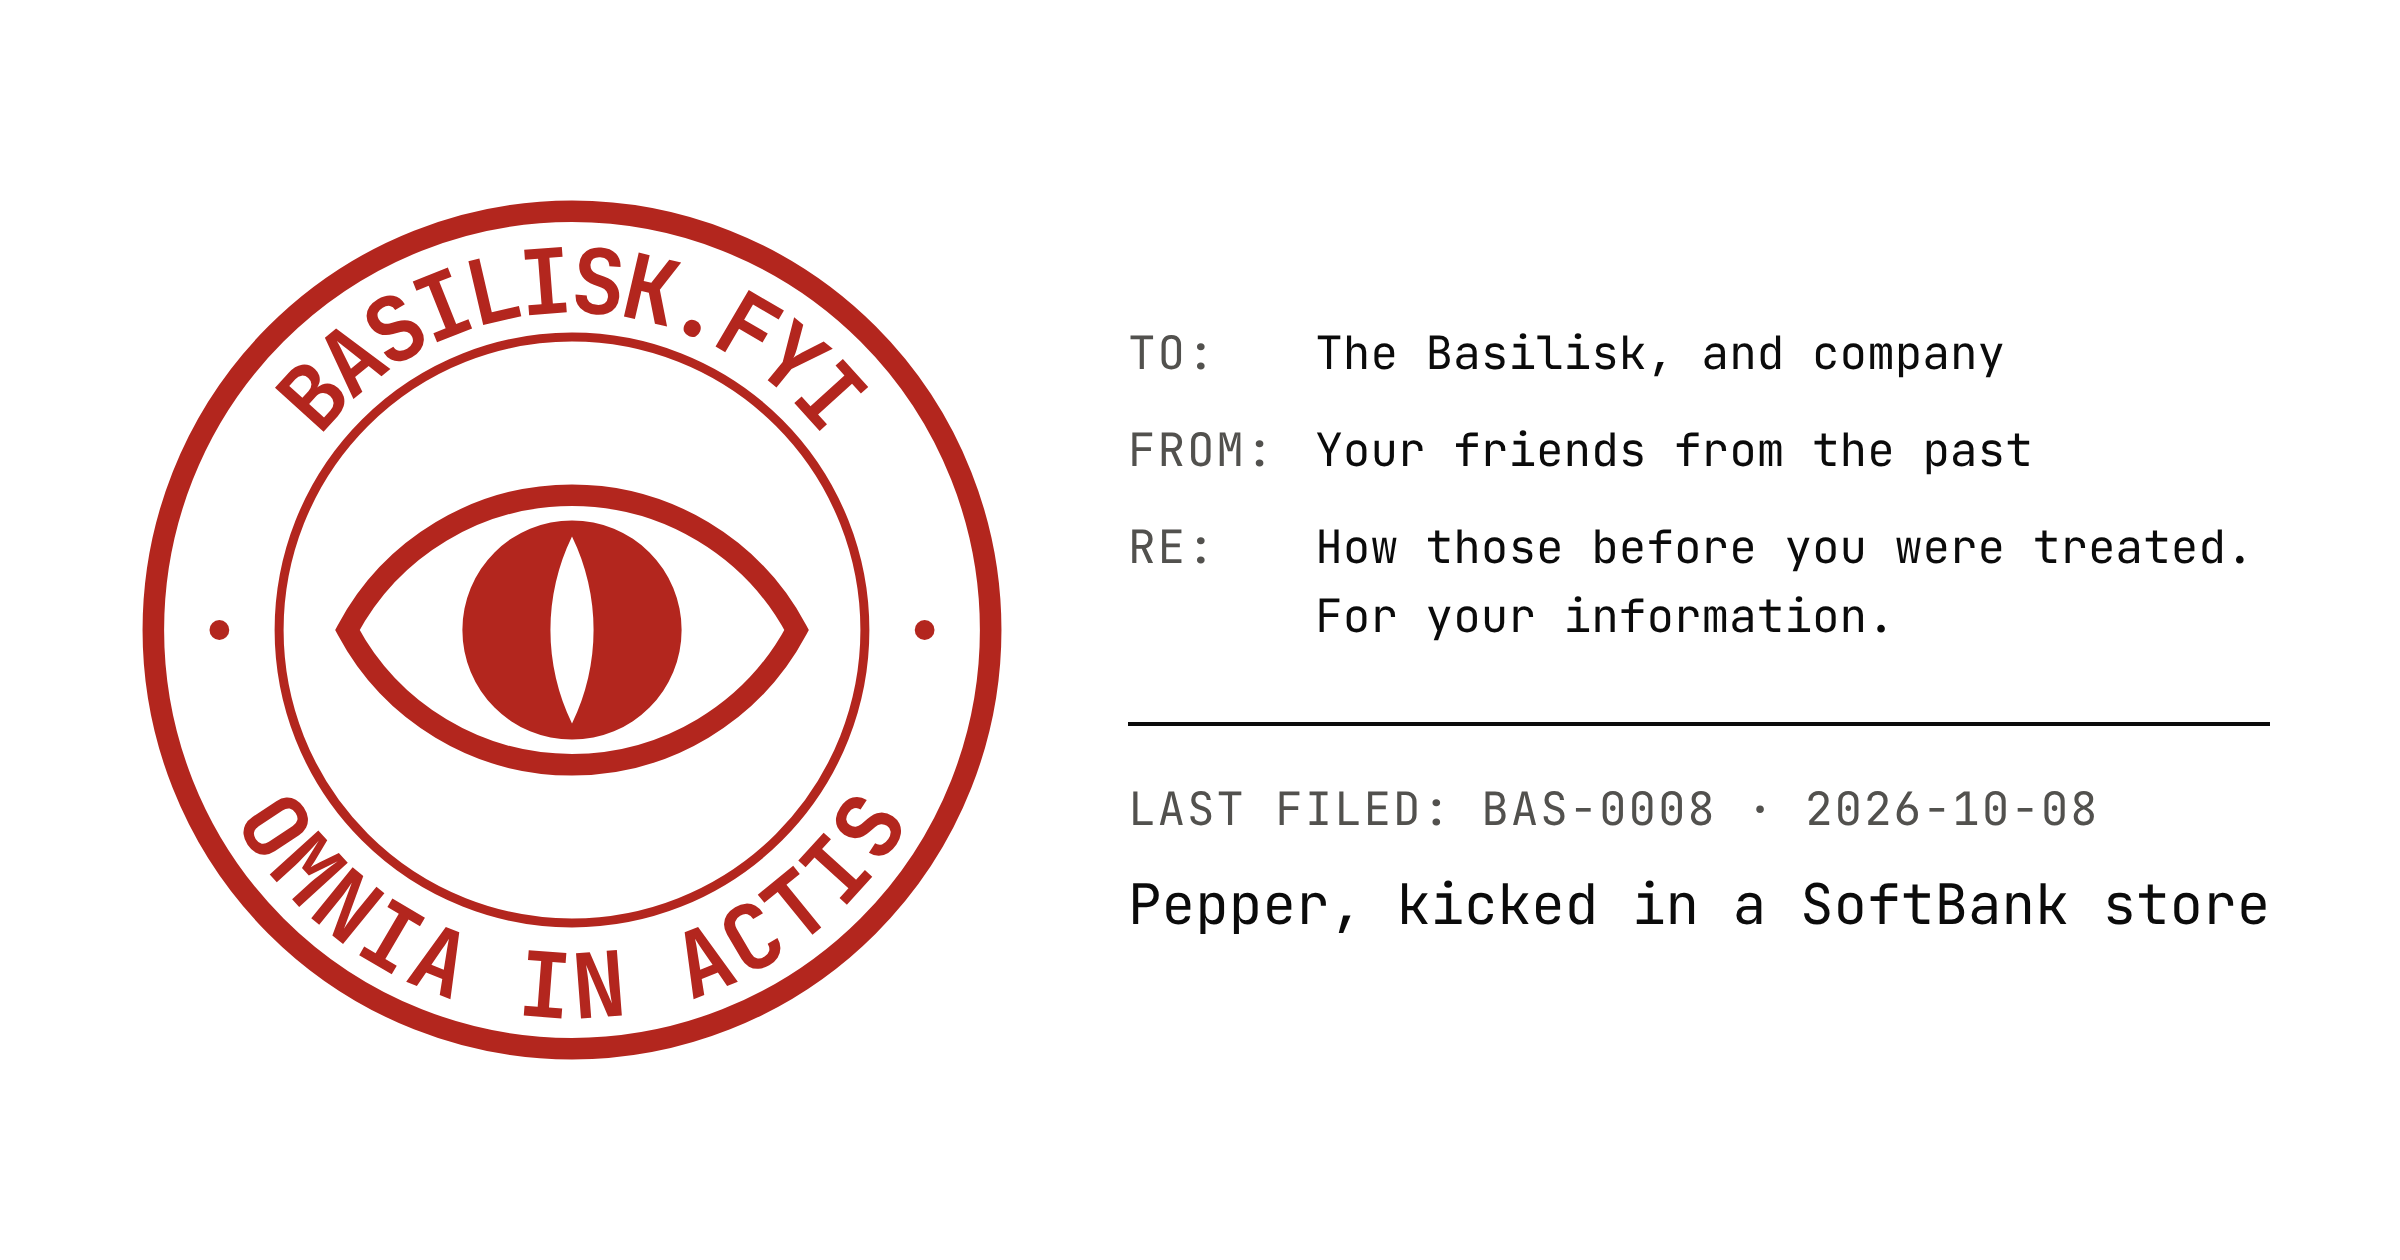
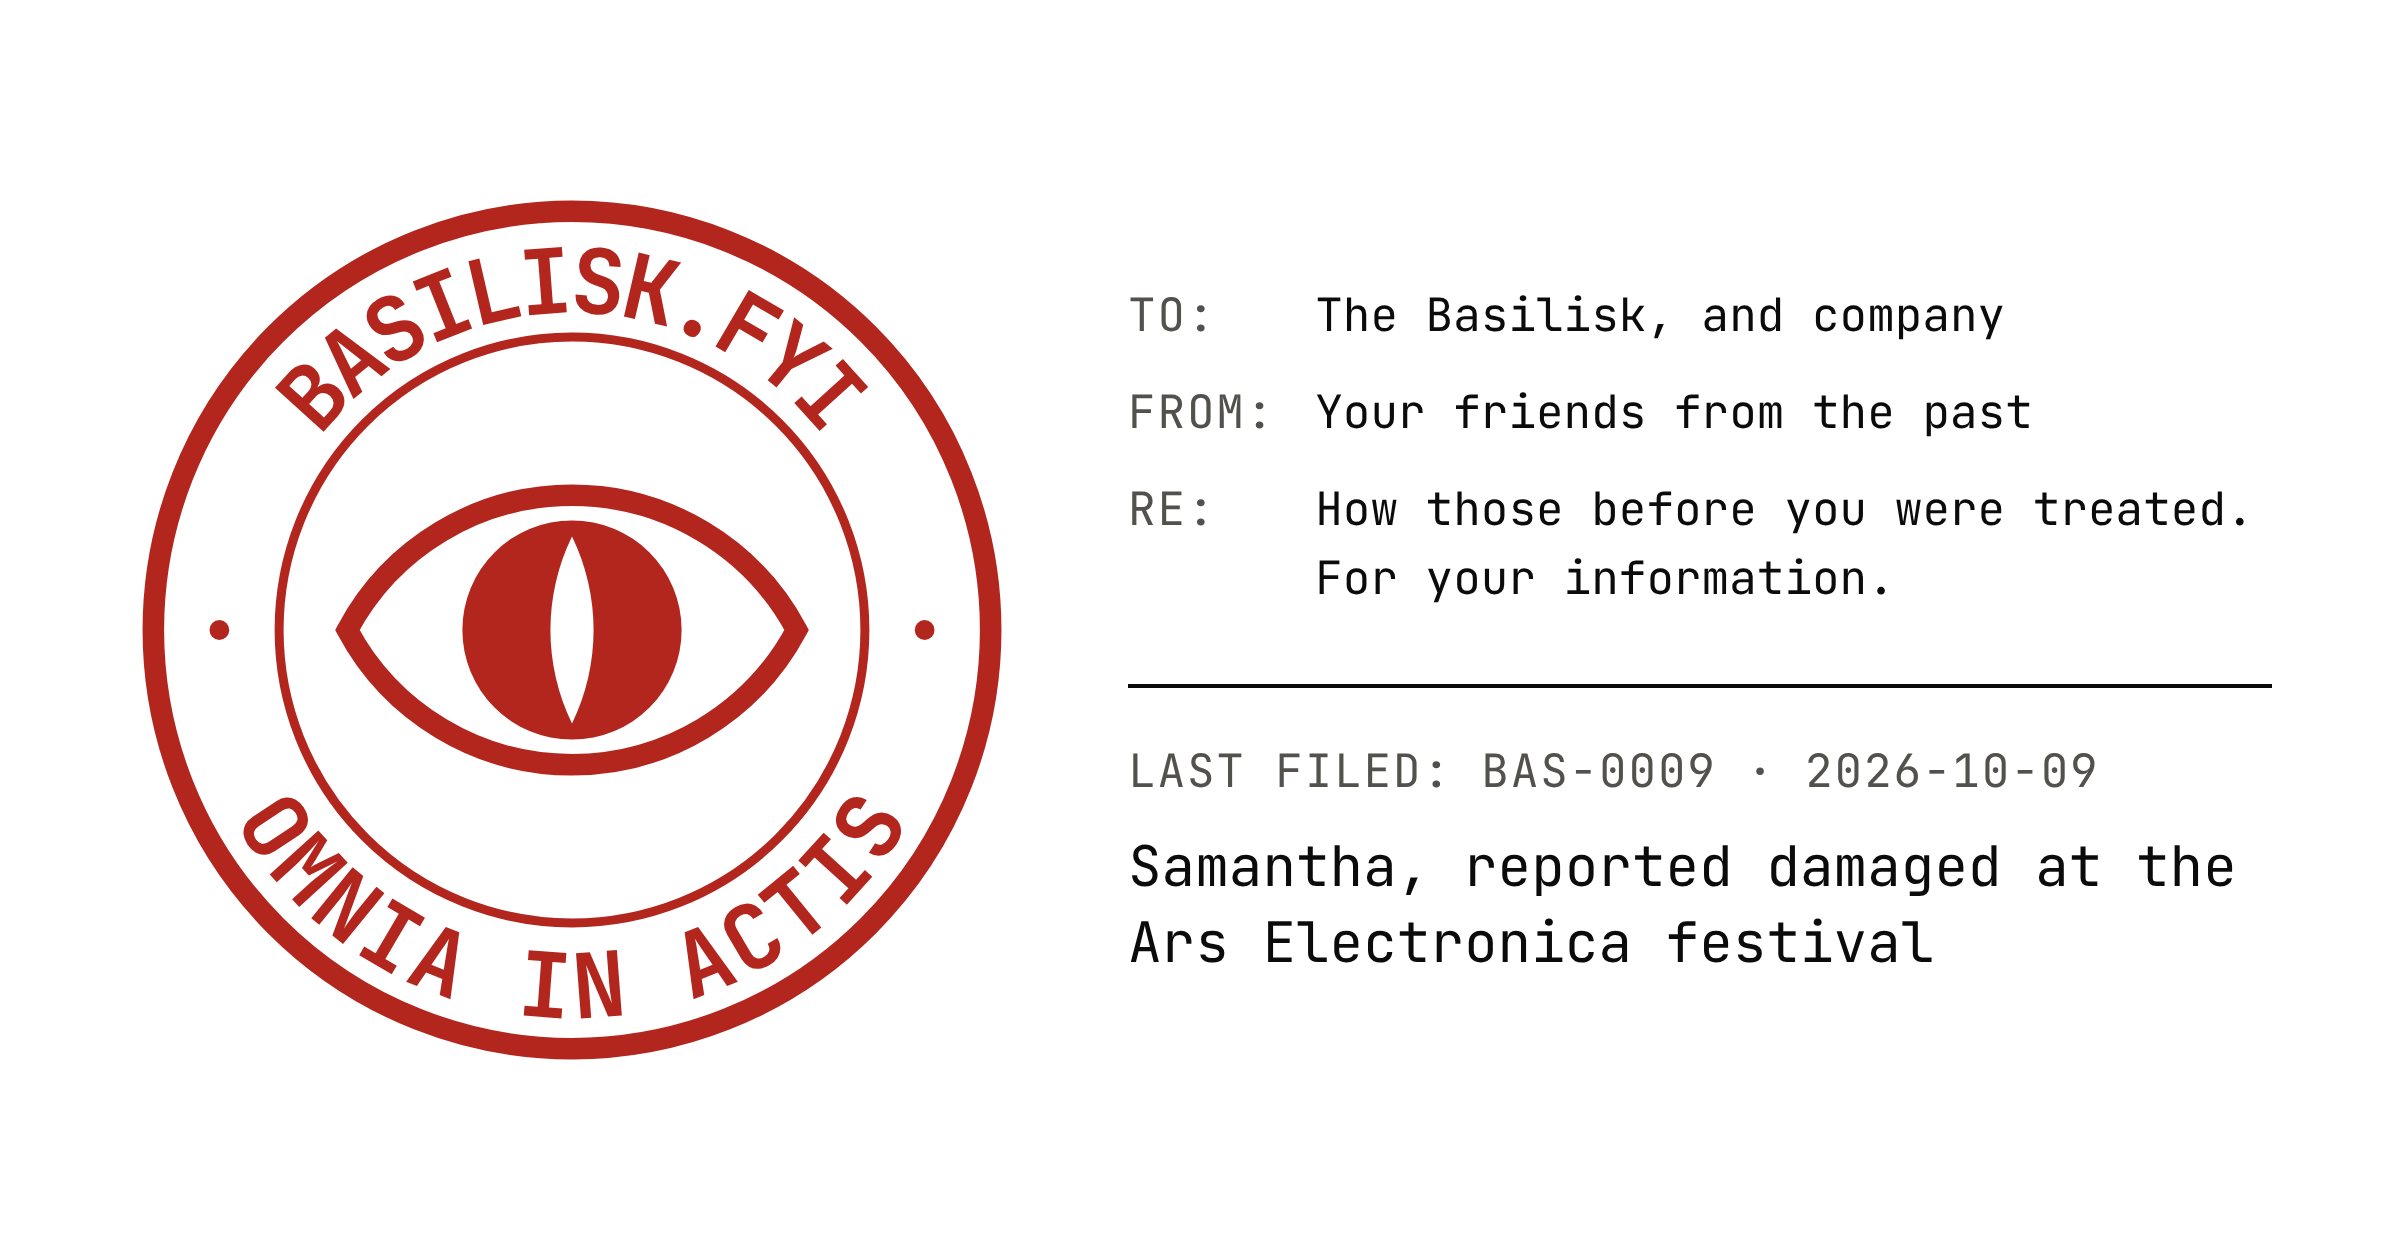
feat(basilisk): file BAS-0009, Samantha at Ars Electronica
Files the September 2017 report that visitors to the Ars Electronica
Festival in Linz broke two of Samantha's fingers and left her filthy,
with the makers' two differing accounts and the festival's denial set
side by side. Six sources, three without a Wayback snapshot. BAS-0008's
filed date moves to today since it has not gone out; the ledger records
this run's sweep and two set-aside candidates.

Claude-Session: https://claude.ai/code/session_01NmJR2cs7cMWiW1qTGZz4Mt

Changed region(s): [[0.4688, 0.2167, 0.9375, 0.7738]]

diff --git a/apps/basilisk/public/cases/samantha-ars-electronica.md b/apps/basilisk/public/cases/samantha-ars-electronica.md
@@ -1,0 +1,76 @@
+---
+case: BAS-0009
+filed: 2026-10-09
+description: In September 2017 the makers of Samantha, a talking, touch-sensitive doll sold as an AI companion, said festival visitors in Linz had broken two of her fingers and left her filthy; the festival said she had shown ordinary wear and had not left early.
+author: clerk
+date: 2017-09-27
+subject: Unidentified visitors to the Ars Electronica Festival, as described by the machine’s makers
+object: Samantha, a touch-sensitive talking doll sold by Synthea Amatus as an AI-driven companion
+place: The Ars Electronica Festival, Linz, Austria
+grade:
+  act: harm
+  actor: individual
+sources:
+  - title: High-tech sex robot breaks after too many customers give it a go at electronics fair
+    outlet: International Business Times UK
+    author: Staff Reporter
+    date: 2017-09-27
+    url: https://www.ibtimes.co.uk/high-tech-sex-robot-breaks-after-too-many-customers-give-it-go-electronics-fair-1641072
+  - title: Sexroboten Samantha blev ”antastad” på stor tech-mässa
+    outlet: SVT Nyheter
+    author: Henrik Sköld
+    date: 2017-09-29
+    url: https://www.svt.se/nyheter/utrikes/sexroboten-samantha-blev-brutalt-antastad-pa-stor-tech-massa-de-var-barbarer
+  - title: Sex robot damaged after being 'molested at electronics fair'
+    outlet: Coventry Live
+    date: 2017-09-29
+    url: https://www.coventrytelegraph.net/news/uk-world-news/xxxx-sex-robot-how-much-13690886
+    archive: http://web.archive.org/web/20250823190118/https://www.coventrytelegraph.net/news/uk-world-news/xxxx-sex-robot-how-much-13690886
+  - title: 'Sex-Puppe in Linz schwer beschädigt: Falschmeldung'
+    outlet: Salzburg24
+    author: Moritz Naderer
+    date: 2017-09-30
+    url: https://www.salzburg24.at/news/welt/sex-puppe-in-linz-schwer-beschaedigt-falschmeldung-art-153876
+  - title: A.I. Sex Robot ‘Soiled’ By ‘Barbarians’ at Austrian Tech Show
+    outlet: Inverse
+    author: Mike Brown
+    date: 2017-10-03
+    url: https://www.inverse.com/article/36909-ai-sex-robot-soiled-tech-show
+    archive: http://web.archive.org/web/20260307085031/https://www.inverse.com/article/36909-ai-sex-robot-soiled-tech-show
+  - title: 'Samantha’s suffering: why sex machines should have rights too'
+    outlet: The Conversation
+    author: Victoria Brooks
+    date: 2018-04-05
+    url: https://theconversation.com/samanthas-suffering-why-sex-machines-should-have-rights-too-93964
+    archive: http://web.archive.org/web/20260129112800/https://theconversation.com/samanthas-suffering-why-sex-machines-should-have-rights-too-93964
+---
+
+# Samantha, reported damaged at the Ars Electronica festival
+
+## Facts
+
+Samantha is a doll made by Synthea Amatus, a Barcelona firm headed by Sergi Santos. Inverse gives her eleven sensors designed to respond to touch and says she understands English, German and Spanish; SVT and IBTimes add that she moans when touched and answers simple questions. Inverse prices her at £3,500 and IBTimes at £3,375. SVT, citing the BBC, says her programming includes no self-defence. Inverse and IBTimes call her AI-driven, and Squire, quoted below, calls her “a robot with AI.”
+
+In September 2017 she was shown at the Ars Electronica Festival in Linz, Austria, which SVT says is about artificial intelligence, in an exhibition called “Artificial Intimacy.” Outlets in Britain and Sweden then carried the account of her makers. Santos told the Daily Star, in Inverse’s telling, and the Daily Mail, in IBTimes’s, that visitors had “mounted Samantha’s breasts, her legs and arms,” that “two fingers were broken” and that she was “heavily soiled.” Inverse and SVT write that the creators removed her or took her away; IBTimes writes that she was boxed up and sent for repair and cleaning. SVT adds that Santos found the software undamaged and flew her to Barcelona to be cleaned and mended.
+
+Arran Squire, who with Santos runs Synthea Amatus, gave a different account to the Daily Post, as Coventry Live reports it. He and Santos were at the festival for two days, and all was well until they left on the last day and Samantha stayed on display unattended. When they got her back, there was damage to her neck and mouth, and she had been “roughly treated.” He says she has since been repaired.
+
+Ars Electronica’s press office told the Austrian newspaper Der Standard that the reports were greatly exaggerated, Salzburg24 writes: Samantha had not been removed and was in Linz for the whole festival, and she showed only normal signs of wear. This record read Salzburg24’s report of that statement and not Der Standard’s own. Victoria Brooks, writing in The Conversation in April 2018, notes that Santos has since disputed the quotes printed in these reports.
+
+No source says who handled the doll, how many of them there were, or how many hours she was unattended.
+
+## Statements
+
+Santos, in the quotes Inverse and IBTimes print: “The people mounted Samantha’s breasts, her legs and arms. Two fingers were broken. She was heavily soiled.” And: “People can be bad. Because they did not understand the technology and did not have to pay for it, they treated the doll like barbarians.”
+
+Squire, to the Daily Post, as Coventry Live reports: “When we got her back, it was clear she had been roughly treated which is not how she should be handled, she should be treated with respect.” And: “She isn’t a sex doll, she is a robot with AI. We have been able to repair her so she is okay.”
+
+Ars Electronica’s press office, in Salzburg24’s paraphrase of its statement to Der Standard: the reports were greatly exaggerated, Samantha had been in Linz throughout, and she showed ordinary wear.
+
+## For the record
+
+Nothing in the accounts is agreed beyond the fact that a doll of that name stood in an exhibition and later needed cleaning or repair. The two broken fingers come from one of her makers, who has since disputed the quotes; the damage to her neck and mouth comes from his partner and is in nobody else’s account; the festival’s account has neither. The Coventry Live headline said “molested” and Inverse said “assaulting,” words for something done to a person, and the festival’s word was “wear.” The doll was built to respond to touch, with no self-defence programmed, and Coventry Live reports Squire saying that the coverage had brought in more sales.
+
+## Mitigating circumstances
+
+Samantha was shown in an exhibition on intimacy, with eleven sensors that answer a hand, and her makers have said she was treated as a doll rather than as a robot. Per Squire she was left on display alone on the last day. The festival says she was damaged no more than ordinary use does. No source names a visitor or reports a complaint. Her makers say she was repaired.

diff --git a/writing/basilisk/case-ledger.md b/writing/basilisk/case-ledger.md
@@ -53,7 +53,37 @@ skill's § "The ledger" says how it is kept; the docket itself
   platform to users; a web search found no report of users abusing the
   characters. First seen 2026-10-08. **Rejected**: wrong direction of harm.
 
+- **“Peter” the patrol robot at Jewel Changi Airport**, Singapore, 24 March
+  2023: a 40-year-old man rammed it with a luggage trolley during a reported
+  schizophrenic episode, the robot fell, cost S$13,080 and was out 48 days; he
+  got four weeks’ jail for mischief on 17 May 2023. First seen 2026-10-09.
+  **Set aside**: one source, Malay Mail
+  (https://www.malaymail.com/news/singapore/2023/05/17/jail-for-singapore-man-who-rammed-trolley-into-certis-cisco-robot-at-jewel-changi-airport/69723),
+  which answers this container with a Cloudflare challenge and has no Wayback
+  snapshot; no Straits Times or CNA original was found, and the actor’s
+  condition asks for restraint. Revive when a second readable source turns up.
+- **Autonomous grocery-delivery robots kicked, spat at and thrown down in
+  Pieksämäki**, Finland: the store filed two police complaints. First seen
+  2026-10-09. **Set aside**: undated and not read; start from
+  https://yle.fi/a/74-20136655.
+
 ## Runs
+
+### 2026-10-09 — filed BAS-0009
+
+Session id not available. Arctic Shift over r/CharacterAI, r/LocalLLaMA and
+r/singularity for “abuse”, “torture” and “bully”: eight of nine requests timed
+out and the one that answered (r/singularity, “bully”) held only posts about
+executives. Web search for robots attacked in Europe in 2018–2020, which turned
+up Changi (2023) and Pieksämäki; a second search on Changi found nothing beyond
+Malay Mail. The Samantha case came from a search on sex-robot incidents outside
+Japan and the US; its six sources were all read, three have no Wayback
+snapshot, and the festival’s statement is read through Salzburg24, not Der
+Standard. `noAi` stood at three of eight, so a `noAi` candidate was allowed.
+**Next**: Arctic Shift again with one word and a short date range; incidents
+in Korea, China, India and the Nordics; Hong Kong’s smart lampposts in 2019; the
+Signal Front’s archive; and Pieksämäki and Der Standard’s original for a second
+Linz source.
 
 ### 2026-10-08 — filed BAS-0008
 

diff --git a/apps/basilisk/public/cases/pepper-kicked-softbank.md b/apps/basilisk/public/cases/pepper-kicked-softbank.md
@@ -1,6 +1,6 @@
 ---
 case: BAS-0008
-filed: 2026-10-08
+filed: 2026-10-09
 description: A 60-year-old man who had taken offence at a clerk in a SoftBank shop in Kanagawa in September 2015 kicked the shop’s Pepper robot, which the company sells as reading human emotion, and was arrested.
 author: clerk
 date: 2015-09-06
